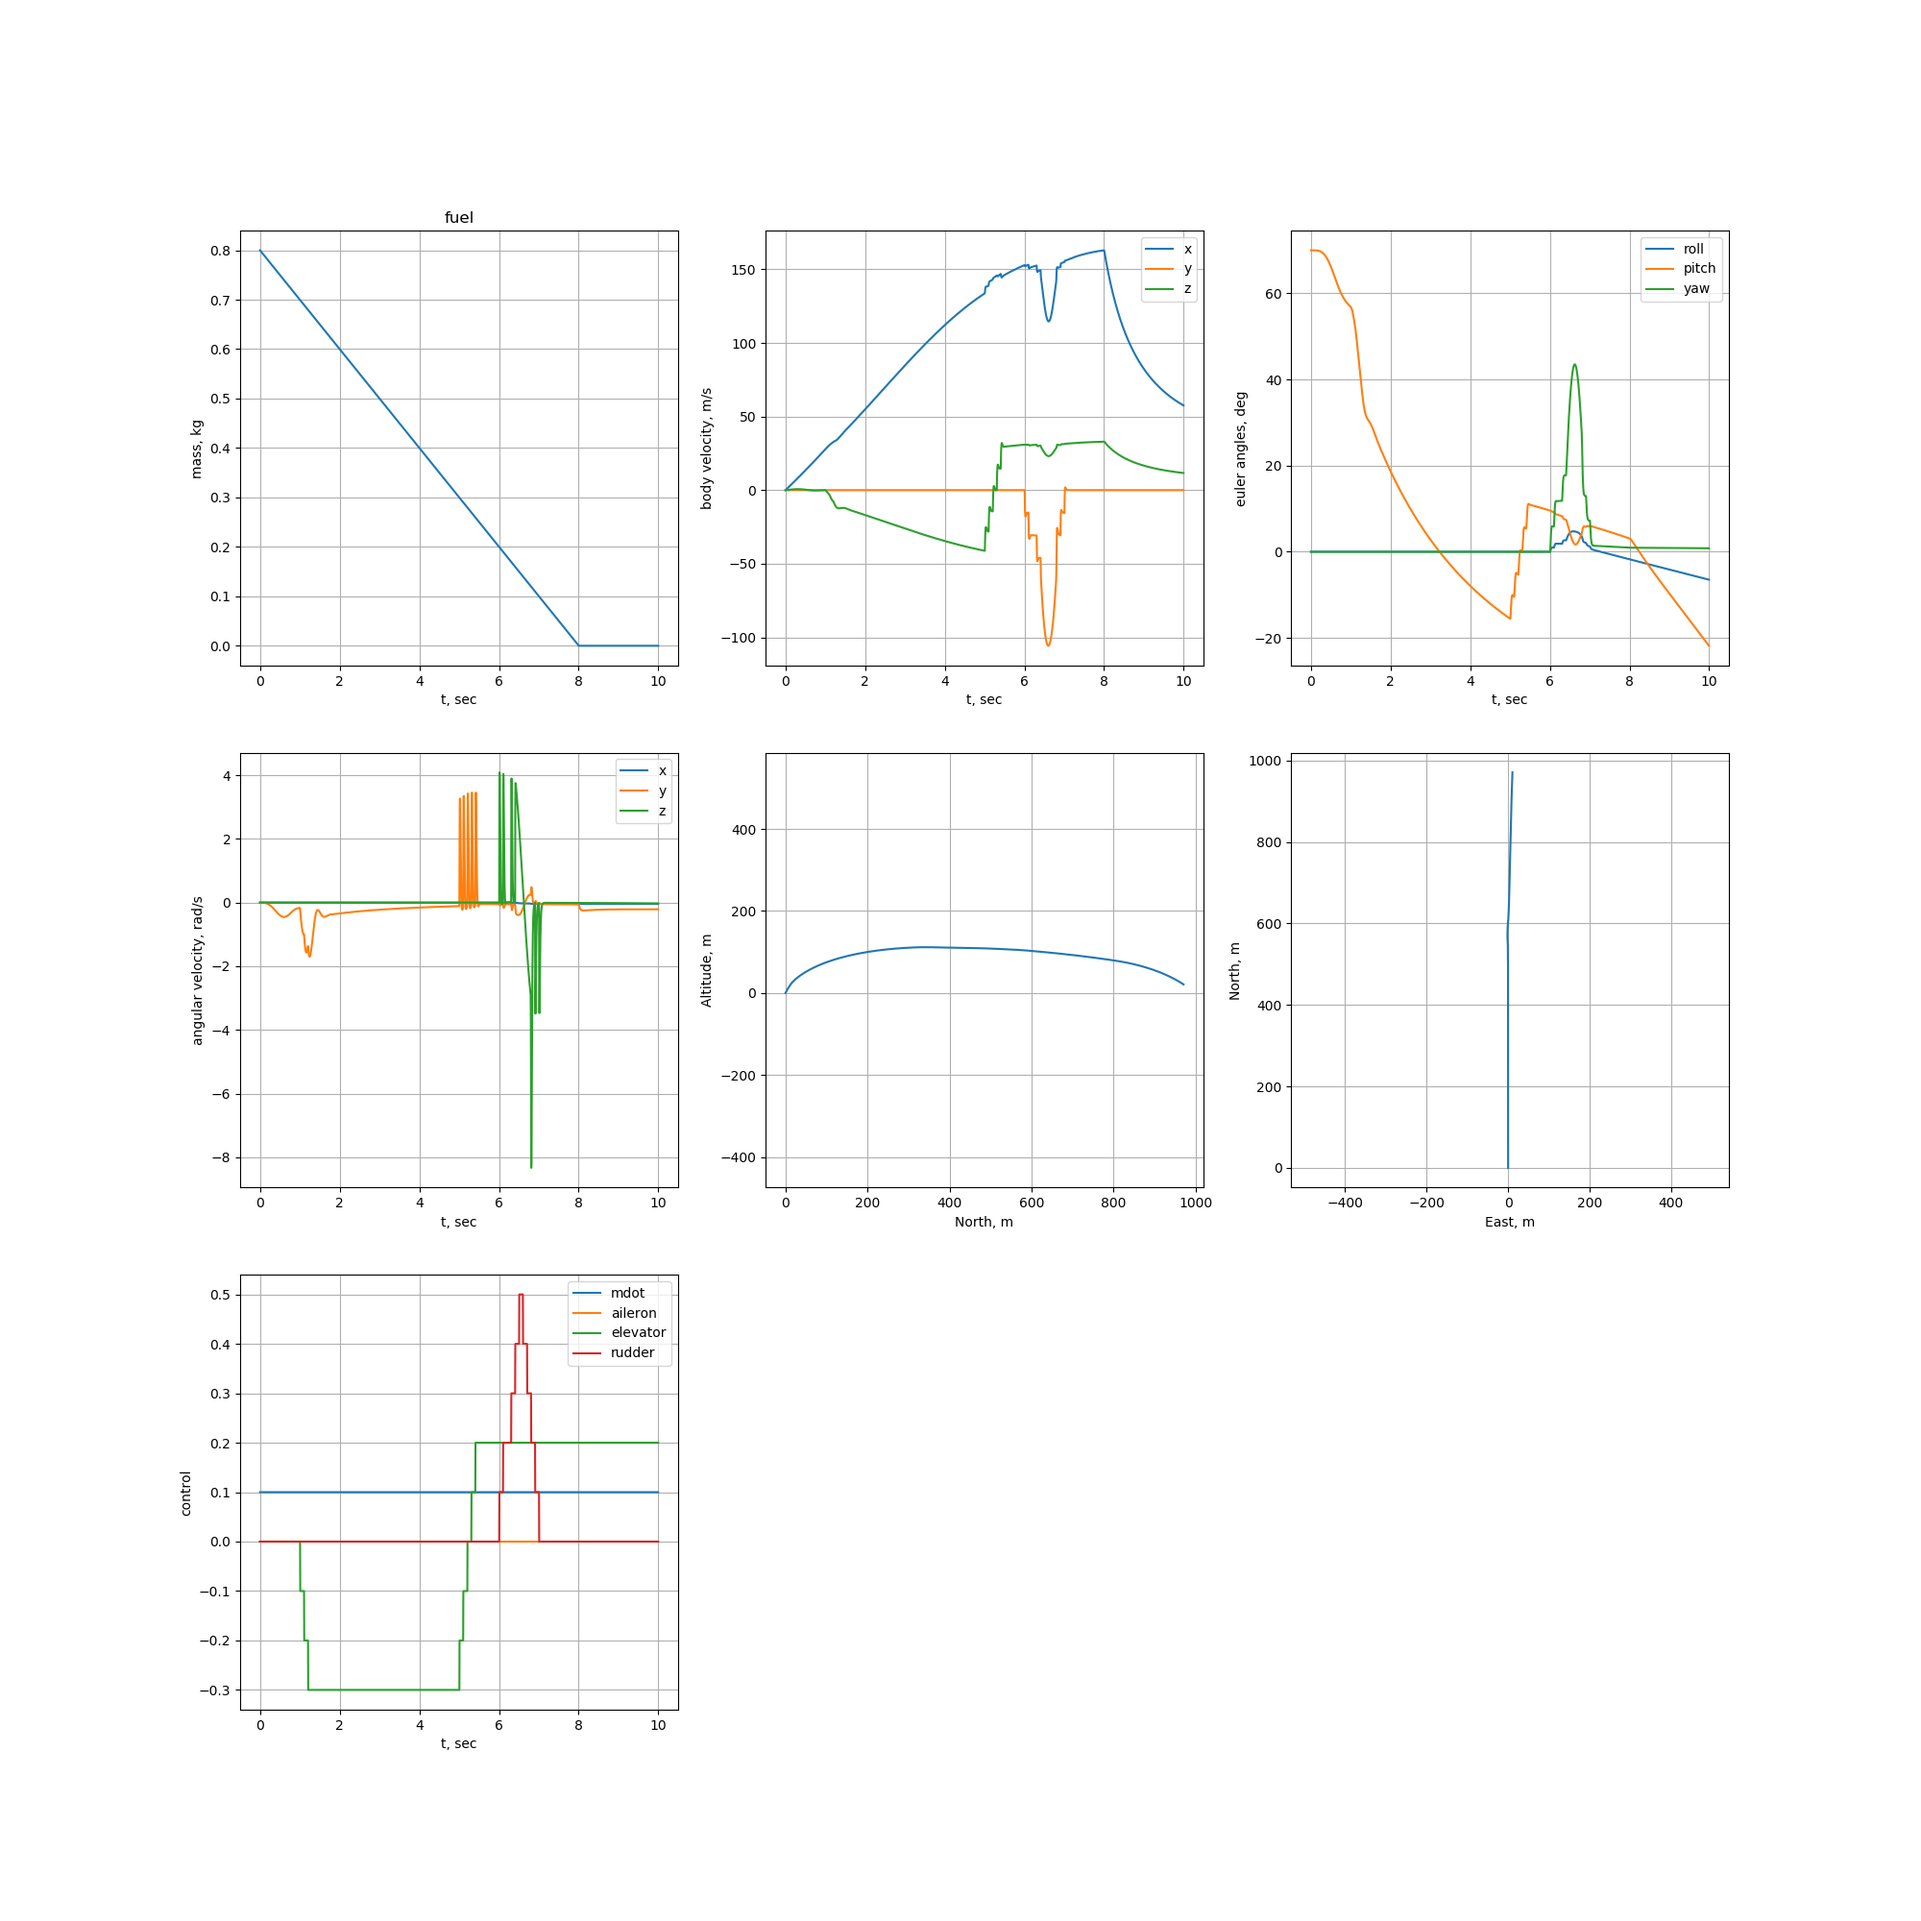
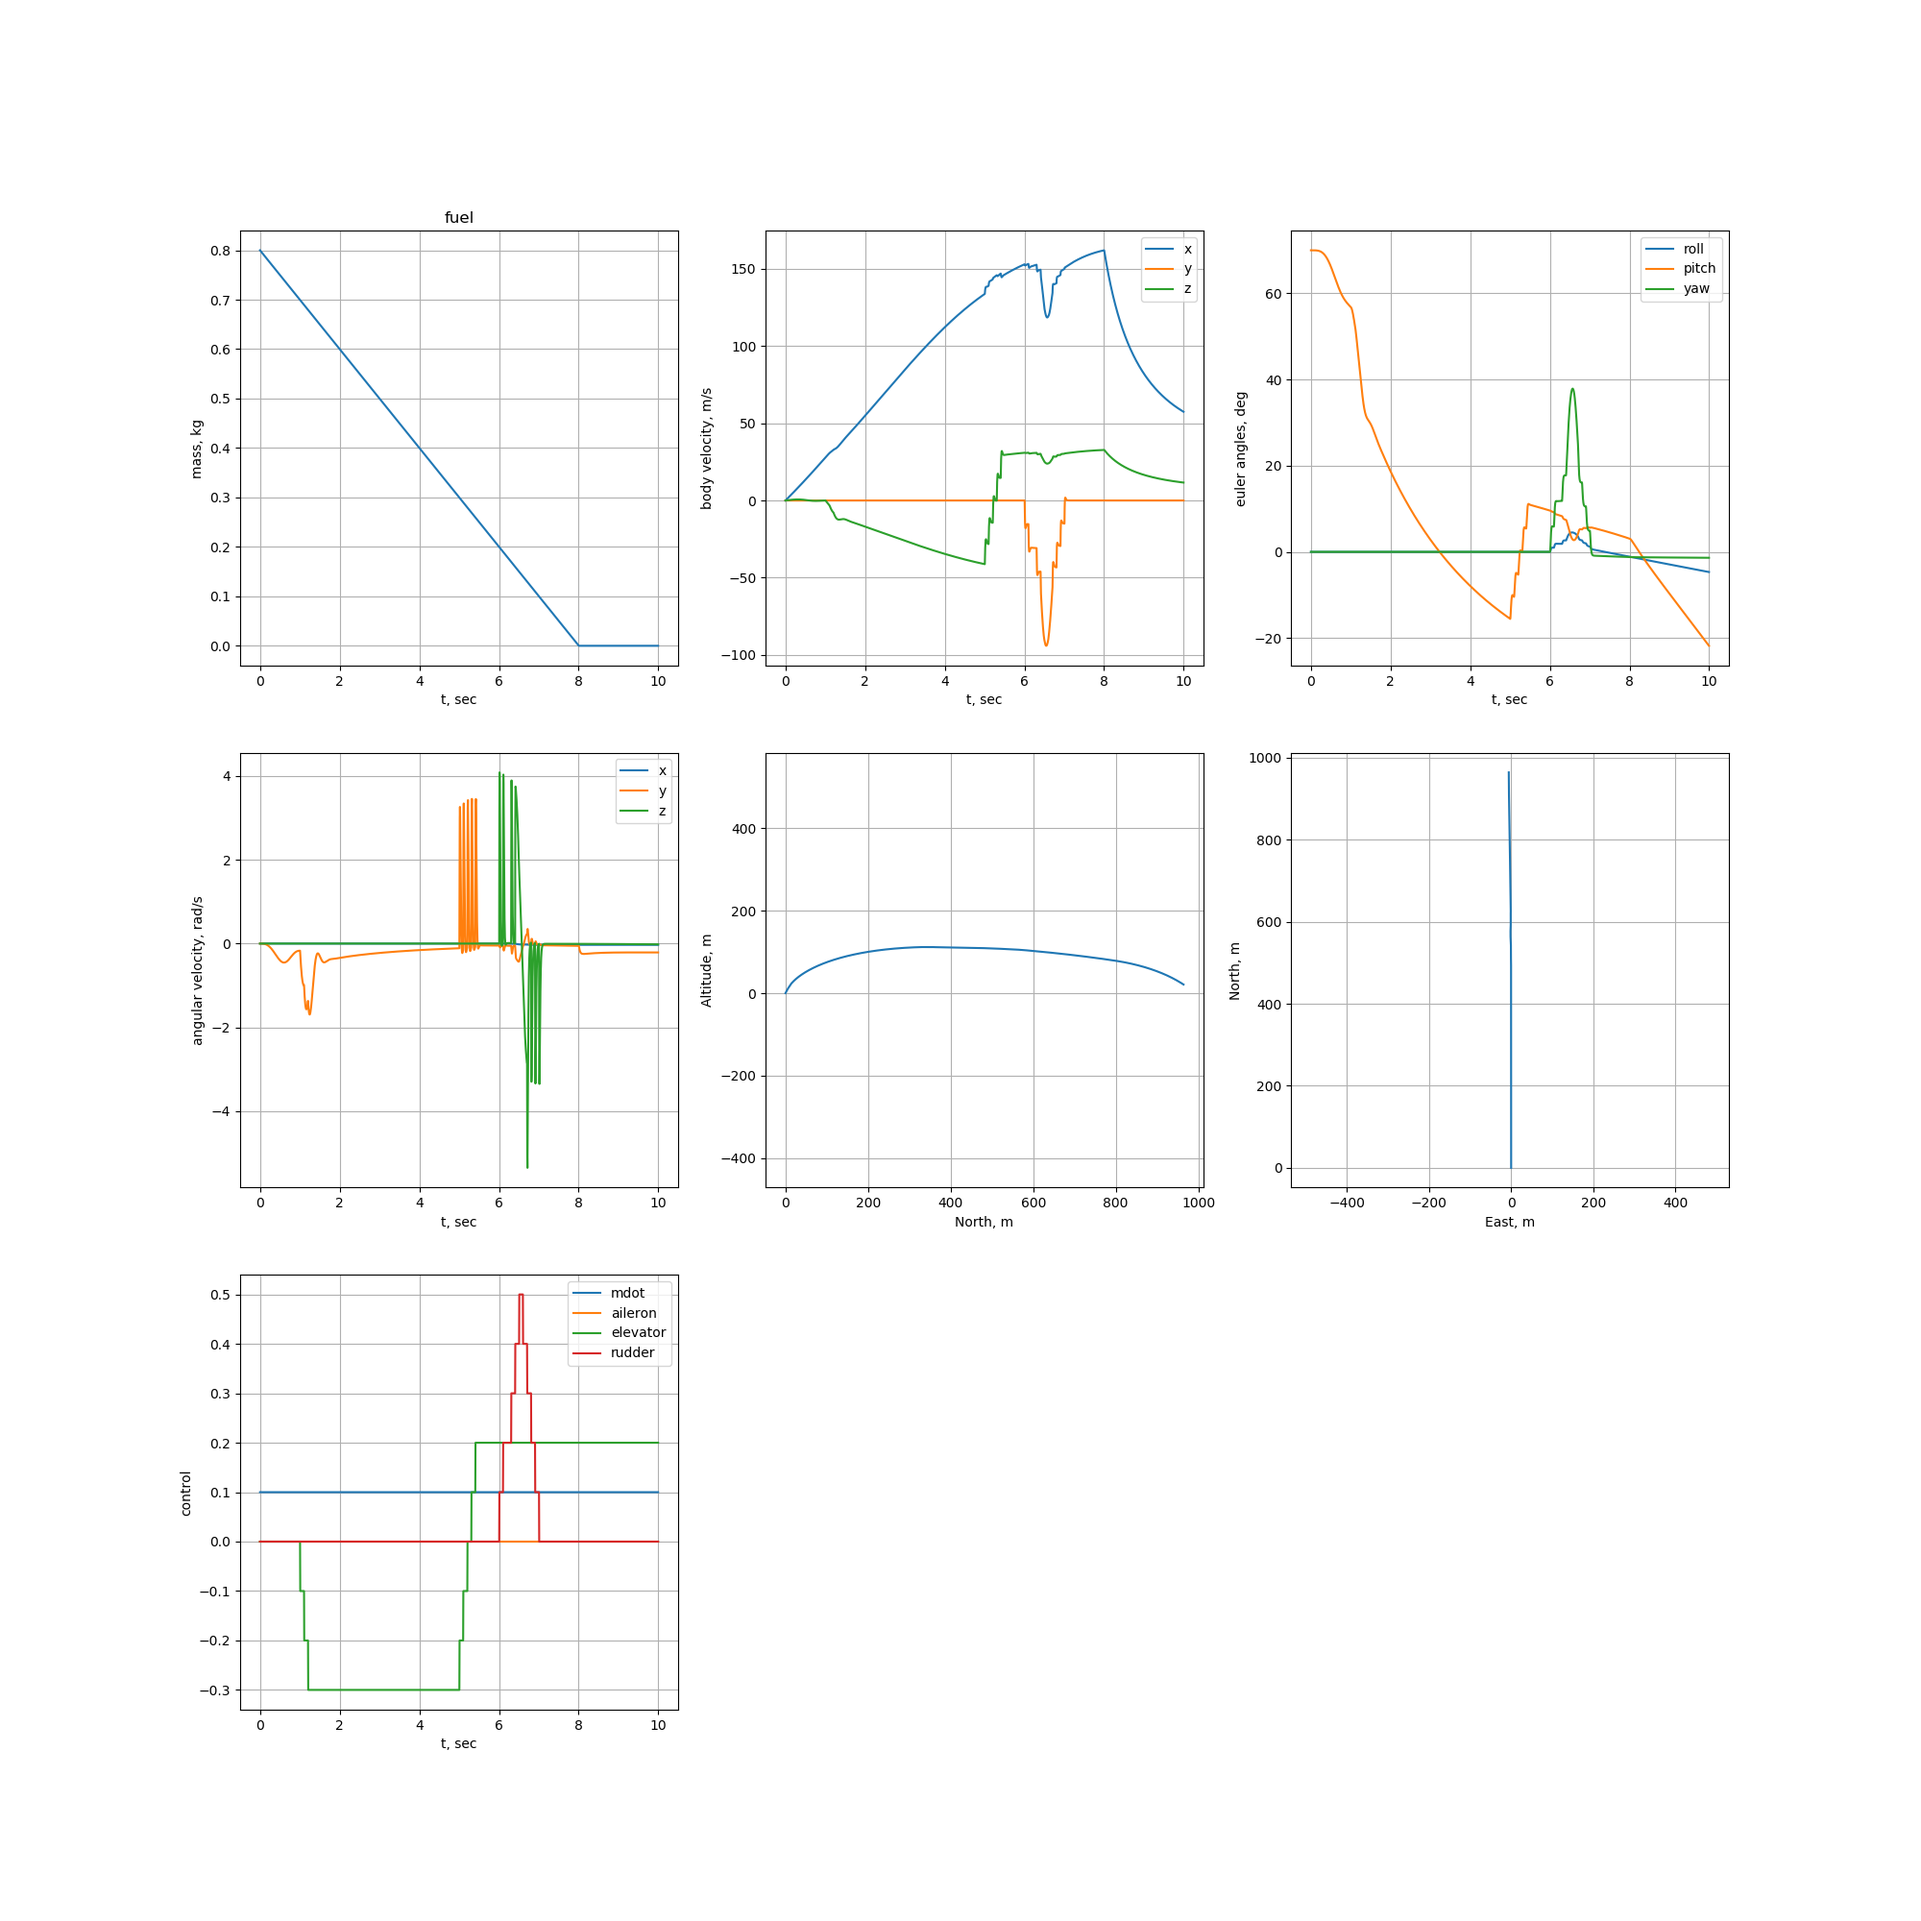
Improve stall model.

diff --git a/ros/src/f16/src/RocketPlugin/casadi_gen.c b/ros/src/f16/src/RocketPlugin/casadi_gen.c
@@ -376,31 +376,29 @@ static int casadi_f1(const casadi_real** arg, casadi_real** res, casadi_int* iw,
   a18=(a16-a17);
   a6=(a6+a18);
   a6=(a15*a6);
-  a6=(a14+a6);
-  a18=5.0000000000000000e-01;
-  a19=arg[2] ? arg[2][13] : 0;
-  a18=(a18*a19);
-  a19=casadi_sq(a1);
-  a20=casadi_sq(a3);
-  a19=(a19+a20);
-  a20=casadi_sq(a4);
-  a19=(a19+a20);
-  a18=(a18*a19);
-  a19=(a6*a18);
-  a20=arg[2] ? arg[2][12] : 0;
+  a18=(a14+a6);
+  a19=5.0000000000000000e-01;
+  a20=arg[2] ? arg[2][13] : 0;
   a19=(a19*a20);
-  a13=(a13*a19);
+  a20=casadi_sq(a1);
+  a21=casadi_sq(a3);
+  a20=(a20+a21);
+  a21=casadi_sq(a4);
+  a20=(a20+a21);
+  a19=(a19*a20);
+  a18=(a18*a19);
+  a20=arg[2] ? arg[2][12] : 0;
+  a18=(a18*a20);
+  a13=(a13*a18);
   a13=(-a13);
   a13=(a12?a13:0);
   a13=(a7?a13:0);
   a21=arg[2] ? arg[2][10] : 0;
   a22=arg[2] ? arg[2][11] : 0;
-  a6=(a7?a6:0);
-  a6=(a6-a14);
   a6=casadi_sq(a6);
   a6=(a22*a6);
   a6=(a21+a6);
-  a6=(a6*a18);
+  a6=(a6*a19);
   a6=(a6*a20);
   a23=(a6*a11);
   a13=(a13-a23);
@@ -425,18 +423,16 @@ static int casadi_f1(const casadi_real** arg, casadi_real** res, casadi_int* iw,
   a30=(a16-a29);
   a23=(a23+a30);
   a23=(a15*a23);
-  a23=(a14+a23);
-  a30=(a23*a18);
+  a30=(a14+a23);
+  a30=(a30*a19);
   a30=(a30*a20);
   a28=(a28*a30);
   a28=(a27?a28:0);
   a28=(a24?a28:0);
-  a23=(a24?a23:0);
-  a23=(a23-a14);
   a23=casadi_sq(a23);
   a23=(a22*a23);
   a23=(a21+a23);
-  a23=(a23*a18);
+  a23=(a23*a19);
   a23=(a23*a20);
   a31=(a23*a11);
   a28=(a28-a31);
@@ -460,18 +456,16 @@ static int casadi_f1(const casadi_real** arg, casadi_real** res, casadi_int* iw,
   a17=(a16+a17);
   a32=(a32+a17);
   a32=(a15*a32);
-  a32=(a14+a32);
-  a17=(a32*a18);
+  a17=(a14+a32);
+  a17=(a17*a19);
   a17=(a17*a20);
   a35=(a35*a17);
   a35=(a34?a35:0);
   a35=(a3?a35:0);
-  a32=(a3?a32:0);
-  a32=(a32-a14);
   a32=casadi_sq(a32);
   a32=(a22*a32);
   a32=(a21+a32);
-  a32=(a32*a18);
+  a32=(a32*a19);
   a32=(a32*a20);
   a36=(a32*a11);
   a35=(a35-a36);
@@ -494,27 +488,25 @@ static int casadi_f1(const casadi_real** arg, casadi_real** res, casadi_int* iw,
   a16=(a16+a29);
   a36=(a36+a16);
   a15=(a15*a36);
-  a15=(a14+a15);
-  a36=(a15*a18);
-  a36=(a36*a20);
-  a37=(a37*a36);
+  a14=(a14+a15);
+  a14=(a14*a19);
+  a14=(a14*a20);
+  a37=(a37*a14);
   a37=(-a37);
   a37=(a1?a37:0);
   a37=(a4?a37:0);
-  a15=(a4?a15:0);
-  a15=(a15-a14);
   a15=casadi_sq(a15);
   a22=(a22*a15);
   a21=(a21+a22);
-  a21=(a21*a18);
+  a21=(a21*a19);
   a21=(a21*a20);
   a20=(a21*a11);
   a37=(a37-a20);
   a31=(a31+a37);
   a31=(a5?a31:0);
   a20=0.;
-  a18=arg[0] ? arg[0][13] : 0;
-  a20=(a20<a18);
+  a19=arg[0] ? arg[0][13] : 0;
+  a20=(a20<a19);
   a22=arg[1] ? arg[1][0] : 0;
   a15=arg[2] ? arg[2][5] : 0;
   a22=(a22*a15);
@@ -523,8 +515,8 @@ static int casadi_f1(const casadi_real** arg, casadi_real** res, casadi_int* iw,
   a20=8.;
   a22=arg[0] ? arg[0][5] : 0;
   a15=arg[0] ? arg[0][3] : 0;
-  a14=(a22*a15);
-  a14=(a20*a14);
+  a36=(a22*a15);
+  a36=(a20*a36);
   a16=4.;
   a29=1.;
   a38=casadi_sq(a15);
@@ -536,28 +528,28 @@ static int casadi_f1(const casadi_real** arg, casadi_real** res, casadi_int* iw,
   a40=(a29-a38);
   a16=(a16*a40);
   a40=(a16*a39);
-  a14=(a14-a40);
+  a36=(a36-a40);
   a38=(a29+a38);
   a38=casadi_sq(a38);
-  a14=(a14/a38);
+  a36=(a36/a38);
   a40=arg[2] ? arg[2][14] : 0;
-  a40=(a40+a18);
-  a18=arg[2] ? arg[2][0] : 0;
-  a40=(a40*a18);
-  a14=(a14*a40);
-  a31=(a31+a14);
+  a40=(a40+a19);
+  a19=arg[2] ? arg[2][0] : 0;
+  a40=(a40*a19);
+  a36=(a36*a40);
+  a31=(a31+a36);
   if (res[0]!=0) res[0][0]=a31;
   a10=(a11/a10);
   a10=(a12?a10:0);
   a12=(!a12);
   a12=(a12?a29:0);
   a10=(a10+a12);
-  a19=(a19*a10);
-  a7=(a7?a19:0);
-  a19=(a6*a9);
-  a7=(a7-a19);
-  a19=(a23*a9);
-  a10=(a7-a19);
+  a18=(a18*a10);
+  a7=(a7?a18:0);
+  a18=(a6*a9);
+  a7=(a7-a18);
+  a18=(a23*a9);
+  a10=(a7-a18);
   a33=(a11/a33);
   a33=(-a33);
   a33=(a34?a33:0);
@@ -601,8 +593,8 @@ static int casadi_f1(const casadi_real** arg, casadi_real** res, casadi_int* iw,
   a1=(!a1);
   a1=(a1?a29:0);
   a11=(a11+a1);
-  a36=(a36*a11);
-  a4=(a4?a36:0);
+  a14=(a14*a11);
+  a4=(a4?a14:0);
   a21=(a21*a25);
   a4=(a4-a21);
   a23=(a23+a4);
@@ -644,19 +636,19 @@ static int casadi_f1(const casadi_real** arg, casadi_real** res, casadi_int* iw,
   a24=(-a24);
   a24=(a0?a24:0);
   if (res[1]!=0) res[1][1]=a24;
-  a19=(a5*a19);
+  a18=(a5*a18);
   a28=(a2*a28);
-  a19=(a19+a28);
+  a18=(a18+a28);
   a7=(a5*a7);
-  a19=(a19-a7);
+  a18=(a18-a7);
   a3=(a5*a3);
-  a19=(a19-a3);
+  a18=(a18-a3);
   a5=(a5*a9);
   a2=(a2*a37);
   a5=(a5-a2);
-  a19=(a19+a5);
-  a19=(-a19);
-  a0=(a0?a19:0);
+  a18=(a18+a5);
+  a18=(-a18);
+  a0=(a0?a18:0);
   if (res[1]!=0) res[1][2]=a0;
   return 0;
 }

diff --git a/ros/src/f16/src/RocketPlugin/rocket_casadi.py b/ros/src/f16/src/RocketPlugin/rocket_casadi.py
@@ -109,10 +109,9 @@ def rocket_equations(jit=True):
         perp_wind_dir = ca.if_else(ca.fabs(norm_perp) > vel_tol, 
             perp_wind_dir/norm_perp, up)
         CL = CL0 + CL_alpha*(alpha + angle)
-        # model stall
-        CL = ca.if_else(ca.fabs(alpha) < 0.4, CL, 0)
         CD = CD0 + K*(CL - CL0)**2
-        L = CL*q*s_fin
+        # model stall as no lift if above 23 deg.
+        L = ca.if_else(ca.fabs(alpha)<0.4, CL*q*s_fin, 0)
         D = CD*q*s_fin
         FAi_b = L*perp_wind_dir - D*rel_wind_dir
         FA_b += FAi_b
